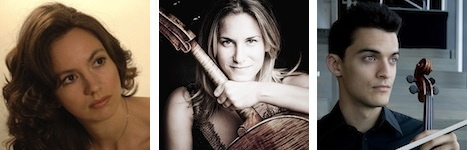
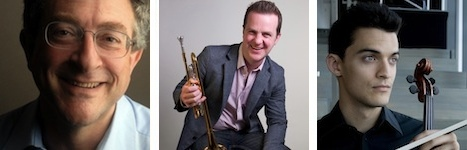
news

diff --git a/newsletter-20131025.html b/newsletter-20131025.html
@@ -24,15 +24,9 @@
 	    <tr>
 	      <td>
 
-		<p>Clare will visit Oxford on the 12 November to perform a recital as part of composer <strong><a href="http://www.robertsaxton.net/" target="_blank">Robert Saxton's</a></strong> 60th birthday celebrations. The Faculty of Music have arranged a number of events to mark the occasion including a concert with trumpeter <strong><a href="http://www.simondesbruslais/com/" target="_blank">Simon Desbruslais</a> and the <strong><a href="http://www.isisensemble.com/" target="_blank">Isis Ensemble</a></strong> the previous evening. Read more about the celebrations <strong><a href="" target="_blank">here</a></strong>.</p>
-
-[MORE INFO ON CELEBRATIONS + OTHER PERFORMERS, LINK]</p>
+		<p>Clare will visit Oxford on the 12 November to perform a recital as part of composer <strong><a href="http://www.robertsaxton.net/" target="_blank">Robert Saxton's</a></strong> 60th birthday celebrations. The Faculty of Music have arranged a number of events to mark the occasion including a concert with trumpeter <strong><a href="http://www.simondesbruslais/com/" target="_blank">Simon Desbruslais</a></strong> and the Isis Ensemble the previous evening. Read more about the celebrations <strong><a href="" target="_blank">here</a></strong>.</p>
 
 		<p>Other engagements include a trio recital with violinist <strong><a href="http://www.saratrickey.com" target="_blank">Sara Trickey</a></strong> and cellist <strong><a href="" target="_blank">Gemma Rosefield</a></strong> at the Conway Hall, duo work with violist <strong><a href="http://www.stephenupshaw.com" target="_blank">Stephen Upshaw</a></strong>, and solo recitals across Gloucestershire, in Bath, London, the Stour Valley, and at the Royal Centre in Nottingham. For regular updates, photographs and film clips visit Clare's new page on <strong><a href="http://www.facebook.com/clarehammondpiano/" target="_blank">Facebook</a></strong> or her channel on <strong><a href="http://www.youtube.com/channel/UCeT_8H3XwUVujzYtFPxVteA/videos" target="_blank">YouTube</a></strong>.</p>
-
-<strong><a href="" target="_blank"></a></strong>
-
-PICTURE TO ROBERT SAXTON + MUSOS, Desbruslais
 
 
 <p><a href="LINK"><img width="467" height="150" src="http://www.clarehammond.com/resources/performers.jpg" border="0" /></a></p>
